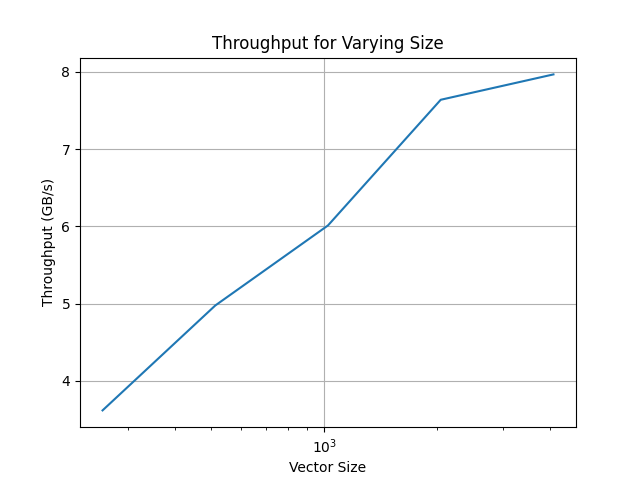
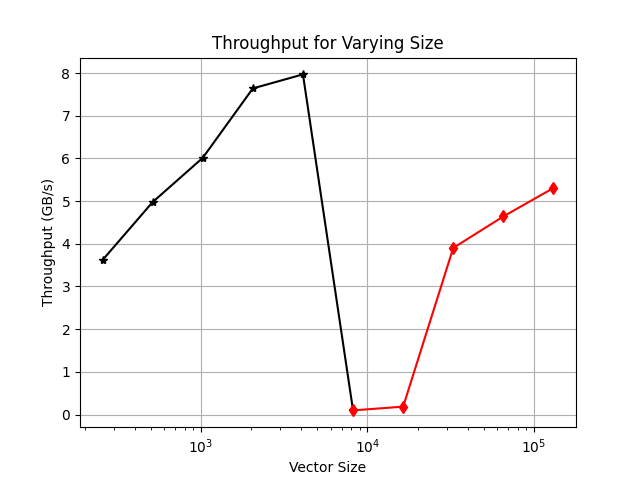
Stuff

diff --git a/GPU/SAXPY/CG/graph.py b/GPU/SAXPY/CG/graph.py
@@ -28,9 +28,12 @@ through=data['Throughput (GB/s)'].to_numpy()
 print(through)
 
 fig, (ax1)= plt.subplots(1,1)
-ax1.plot(size,CPU, label='CPU')
-ax1.plot(size,GPU_Mem, label='GPU total')
-ax1.plot(size,GPU_wo_Mem, label='GPU exec')
+ax1.plot(size[:6],CPU[:6],'k',marker='*', label='CPU')
+ax1.plot(size[:6],GPU_Mem[:6],'r',marker='*', label='GPU total')
+ax1.plot(size[:6],GPU_wo_Mem[:6],'b',marker='*', label='GPU exec')
+ax1.plot(size[5:],CPU[5:],'k',marker='d', label='CPU, Linear Operator')
+ax1.plot(size[5:],GPU_Mem[5:],'r',marker='d', label='GPU total, Linear Operator')
+ax1.plot(size[5:],GPU_wo_Mem[5:],'b',marker='d', label='GPU exec, Linear Operator')
 ax1.set_xscale("log")
 ax1.grid()
 ax1.legend()
@@ -41,8 +44,10 @@ plt.savefig('fig_1.png')
 plt.show()
 
 fig, (ax3)= plt.subplots(1,1)
-ax3.plot(size,SU_Mem, label='GPU total')
-ax3.plot(size,SU_wo_Mem, label='GPU exec')
+ax3.plot(size[:6],SU_Mem[:6],'k',marker='*', label='GPU total')
+ax3.plot(size[:6],SU_wo_Mem[:6],'r',marker='*', label='GPU exec')
+ax3.plot(size[5:],SU_Mem[5:],'k', marker='d',label='GPU total, Linear Operator')
+ax3.plot(size[5:],SU_wo_Mem[5:],'r',marker='d', label='GPU exec, Linear Operator')
 ax3.set_xscale("log")
 ax3.grid()
 ax3.legend()
@@ -53,9 +58,11 @@ plt.savefig('fig_2.png')
 plt.show()
 
 fig, (ax2)= plt.subplots(1,1)
-ax2.plot(size,through)
+ax2.plot(size[:6],through[:6],'k',marker='*', label='Throughput')
+ax2.plot(size[5:],through[5:],'r',marker='d', label='Throughput, Linear Operator')
 ax2.set_xscale("log")
 ax2.grid()
+ax3.legend()
 ax2.set_xlabel('Vector Size')
 ax2.set_ylabel('Throughput (GB/s)')
 ax2.set_title('Throughput for Varying Size')

diff --git a/GPU/SAXPY/Dot_Product/README.md b/GPU/SAXPY/Dot_Product/README.md
@@ -1,17 +1,17 @@
-|Size|CPU Exec time (ms)| GPU Exec time (ms) | Memory Transfer (H->D)(ms)| Memory Transfer (D->H)(ms)| SpeedUp| Throughput (GB/s)|
+|Size|CPU Exec time (ms)| GPU Exec time (ms) | Memory Transfer (Host to Device)(ms)| Memory Transfer (Device to Host)(ms)| SpeedUp| Throughput (GB/s)|
 |----|------------------|--------------------|---------------------------|---------------------------|--------|------------------|
-|64|.0007|.032768| .02048 | .016864 | | .0138175|
-|128|.0012|.03072|.02048 | .014912 | | .0290461 |
-|256| .00107 | .031744 | .023552 | .015104 | | .053084 |
-|512| .00506 | .031744 | .0256 | .014688 | | .101767 |
-|1024| .00844 | .03072 | .024576 | .0168 | | .19809 |
-|2048| .01666 | .03072 | .027648 | .016128 | | .37436 |
-|4096| .033221 | .0317 | .0256 | .15104 | | .80513 |
-|8192| .078432 | .033792 | .039936 | .016224 | | 1.167 |
-|16384| .13297 | .03416 | .04608 | .015072 | | 2.14345 |
-|32768| .2187 | .034624 | .051328 | .014336 | | 3.992 |
-|65536| .255775 | .035072 | .078528 | .016448 | | 5.5203 |
-|131072| .428459 | .03728 | .137888 | .01504 | | 6.857 |
+|64|.0007|.032768| .02048 | .016864 | .0214| .0138175|
+|128|.0012|.03072|.02048 | .014912 | .0391 | .0290461 |
+|256| .00107 | .031744 | .023552 | .015104 | .03371| .053084 |
+|512| .00506 | .031744 | .0256 | .014688 |.1594| .101767 |
+|1024| .00844 | .03072 | .024576 | .0168 | .2747| .19809 |
+|2048| .01666 | .03072 | .027648 | .016128 | .54231| .37436 |
+|4096| .033221 | .0317 | .0256 | .15104 |1.048 | .80513 |
+|8192| .078432 | .033792 | .039936 | .016224 | 2.321| 1.167 |
+|16384| .13297 | .03416 | .04608 | .015072 | 3.8926| 2.14345 |
+|32768| .2187 | .034624 | .051328 | .014336 | 6.316| 3.992 |
+|65536| .255775 | .035072 | .078528 | .016448 | 7.293| 5.5203 |
+|131072| .428459 | .03728 | .137888 | .01504 | 11.4| 6.857 |
 
 ![fig_1](https://user-images.githubusercontent.com/84815326/226651991-0fa9ea7a-1ab3-4db9-b88c-61e10a6dc82e.png)
 ![fig_2](https://user-images.githubusercontent.com/84815326/226651993-4a29ca05-cbfc-4237-a383-e47dcda8438c.png)

diff --git a/GPU/SAXPY/CG/README.md b/GPU/SAXPY/CG/README.md
@@ -13,6 +13,4 @@
 
 
 
-![fig_2](https://user-images.githubusercontent.com/84815326/219904607-a2dfc731-059d-40cb-b5ae-cdb352cdbb63.png)
-![fig_3](https://user-images.githubusercontent.com/84815326/219904608-98cef89c-9901-427d-a376-822faf7315c8.png)
-![fig_1](https://user-images.githubusercontent.com/84815326/219904609-54185a74-b9aa-44e1-8142-e6937c868614.png)
+
